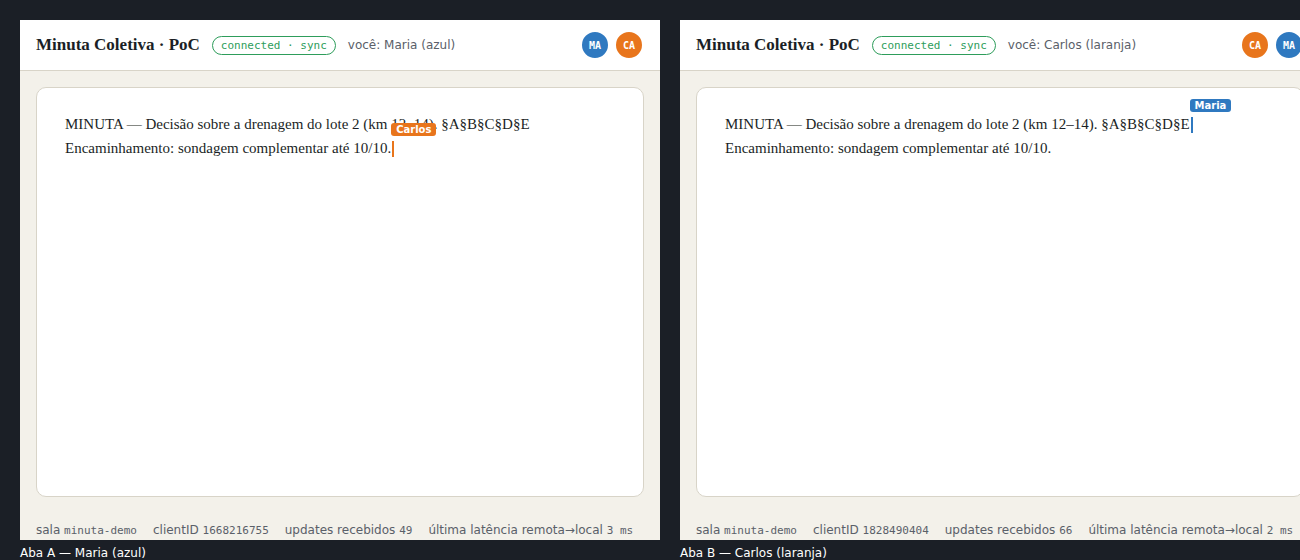
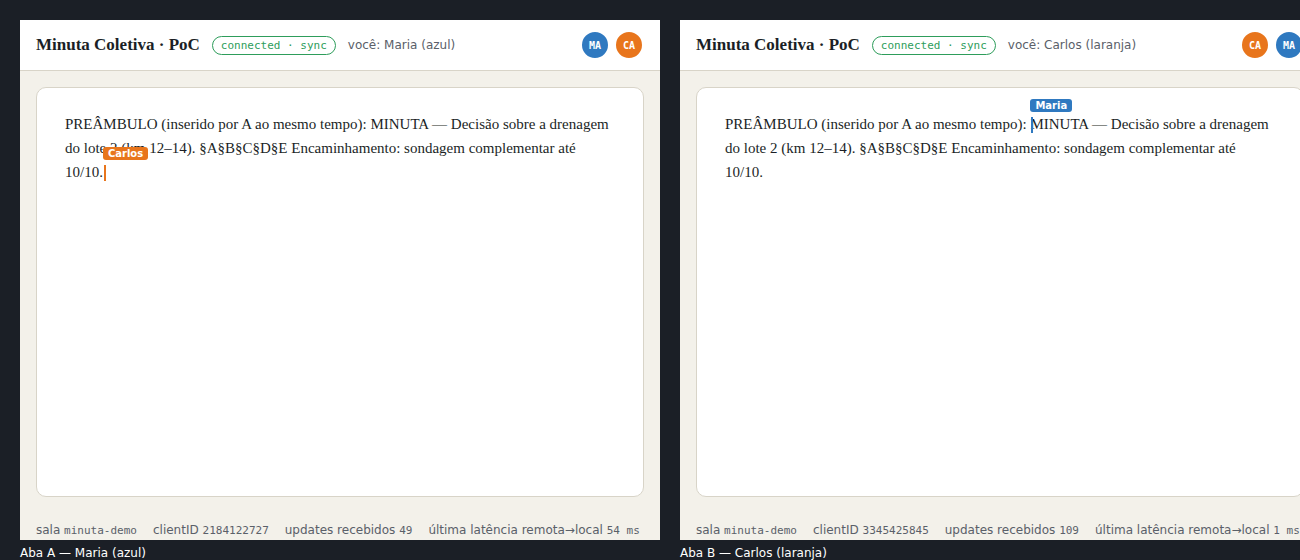
fix(docs): revisão Codex na PoC de coedição — servidor robusto e teste concorrente de verdade
- server.mjs: frame WebSocket vazio/truncado/desconhecido fecha só a conexão (1003)
  em vez de derrubar o processo; /vendor recusa segmentos . e .. (inclusive
  codificados) e só serve arquivo cujo realpath continua dentro do pacote.
- test.mjs: chromium.launch dentro do try/finally (o servidor é sempre morto);
  passo 3 virou edição realmente concorrente (A no início e B no fim, em paralelo)
  e a convergência exige as três frases contíguas.
- client.html: o passo concorrente revelou que o caret era restaurado por offset
  absoluto e andava para trás quando chegava texto remoto antes dele; agora é
  mapeado pelo delta do update (equivalente ao Y.RelativePosition do editor real).
- README/COEDICAO_TECNICA/teste.log/captura atualizados com a nova execução
  (10–14 ms por tecla, 430 ms para 92 caracteres em paralelo, convergiu).
- package-lock.json versionado para a PoC ser reproduzível.

Claude-Session: https://claude.ai/code/session_01KGwP9AAPCHnmdWi7UQkQYW

diff --git a/docs/lab/poc-coedicao/client.html b/docs/lab/poc-coedicao/client.html
@@ -80,10 +80,23 @@ const editor = $('editor');
 let applyingRemote = false;
 let updates = 0;
 
-function render() {
+// Reaplica o texto e MAPEIA o caret local pelo delta remoto: sem isso, um colega inserindo texto antes do meu caret
+// faria meu caret "andar para trás" (offset absoluto) e minhas próximas letras cairiam no meio do texto dele. É o que o
+// editor de verdade faz com Y.RelativePosition (COEDICAO_TECNICA.md); aqui o delta do evento basta.
+function render(delta) {
   const sel = getCaret();
   editor.textContent = ytext.toString();
-  if (sel != null) setCaret(sel);
+  if (sel != null) setCaret(delta ? mapCaret(sel, delta) : sel);
+}
+function mapCaret(pos, delta) {
+  let idx = 0, p = pos;
+  for (const op of delta) {
+    if (idx >= p) break;
+    if (op.retain) idx += op.retain;
+    else if (op.insert) { const len = op.insert.length; if (idx < p) p += len; idx += len; }
+    else if (op.delete) { p -= Math.min(op.delete, p - idx); }
+  }
+  return p;
 }
 function getCaret() {
   const s = window.getSelection();
@@ -109,7 +122,7 @@ editor.addEventListener('input', () => {
 });
 ytext.observe((ev, tr) => {
   if (tr.origin === 'local') return;
-  applyingRemote = true; render(); applyingRemote = false;
+  applyingRemote = true; render(ev.delta); applyingRemote = false;
   updates++; $('updates').textContent = updates;
   // latência: quem digita grava Date.now() no awareness (campo typedAt); aqui comparamos ao recebimento do update
   const states = [...awareness.getStates().values()];

diff --git a/docs/lab/poc-coedicao/README.md b/docs/lab/poc-coedicao/README.md
@@ -28,23 +28,29 @@ CHROME=/opt/pw-browsers/chromium-1194/chrome-linux/chrome npm test
 
 ```
 ambas conectadas; presença em A = 2
-A→B: "MINUTA — Decisão sobre a drenagem do lote 2 (km 12–14)." chegou em 248 ms (inclui o tempo de digitação dos 56 caracteres)
-A→B 1 token "§A": 15 ms
-A→B 1 token "§B": 11 ms
-A→B 1 token "§C": 13 ms
-A→B 1 token "§D": 12 ms
-A→B 1 token "§E": 17 ms
-B→A: chegou em 284 ms
-convergiu: true | texto final: "MINUTA — Decisão sobre a drenagem do lote 2 (km 12–14). §A§B§C§D§E Encaminhamento: sondagem complementar até 10/10."
-servidor /status: {"minuta-demo":{"conns":2,"updates":115,"textLength":115,"awareness":2}}
-RESULTADO: OK — todas as amostras < 1 s (máx 284 ms)
+A→B: "MINUTA — Decisão sobre a drenagem do lote 2 (km 12–14)." chegou em 283 ms (inclui o tempo de digitação dos 56 caracteres)
+A→B 1 token "§A": 10 ms
+A→B 1 token "§B": 12 ms
+A→B 1 token "§C": 11 ms
+A→B 1 token "§D": 11 ms
+A→B 1 token "§E": 14 ms
+concorrente: B→A e A→B chegaram em 430 ms (92 caracteres digitados em paralelo)
+convergiu: true | texto final: "PREÂMBULO (inserido por A ao mesmo tempo): MINUTA — Decisão sobre a drenagem do lote 2 (km 12–14). §A§B§C§D§E Encaminhamento: sondagem complementar até 10/10."
+servidor /status: {"minuta-demo":{"conns":2,"updates":158,"textLength":158,"awareness":2}}
+captura salva em teste-2-abas.png
+RESULTADO: OK — todas as amostras < 1 s (máx 430 ms)
 ```
 
-- **Latência por tecla (A→B, localhost): 11–17 ms**; o tempo de 248/284 ms das frases inteiras é dominado pela digitação simulada caractere a caractere (56 e 49 updates), não pelo transporte.
-- Os dois lados convergiram para o mesmo texto após edições concorrentes (Carlos escreveu no fim enquanto o cursor de Maria estava no meio).
+- **Latência por tecla (A→B, localhost): 10–14 ms**; o tempo das frases inteiras (430 ms no passo concorrente) é dominado pela digitação simulada caractere a caractere, não pelo transporte.
+- **Edição realmente concorrente** (passo 3): Maria insere um preâmbulo no **início** enquanto Carlos escreve no **fim**, ao mesmo tempo (`Promise.all`, sem esperar um pelo outro). Os dois lados convergiram para o mesmo texto e cada frase ficou contígua. Esse passo revelou um defeito do cliente da PoC (o caret era restaurado por offset absoluto e "andava para trás" quando chegava texto remoto antes dele, misturando as frases); corrigido mapeando o caret pelo delta do update remoto — no editor real isso é o `Y.RelativePosition` (COEDICAO_TECNICA.md).
 - Presença: cada aba vê 2 estados de awareness (avatar + cursor colorido do outro usuário).
 
 ![captura das 2 abas](teste-2-abas.png)
+
+## Robustez do servidor (revisão)
+- Frame WebSocket vazio, truncado ou de tipo desconhecido fecha **só aquela conexão** (código 1003) e é registrado no log; o processo e as outras salas continuam.
+- `/vendor/<pacote>/<sub>` recusa segmentos `.`/`..` (inclusive codificados, `%2F..%2F`) e só serve o arquivo se o caminho canônico (`realpath`) continuar dentro do pacote escolhido em `node_modules`.
+- `test.mjs` mata o servidor mesmo quando o Chromium não sobe (o `launch` está dentro do `try/finally`), para a porta 1239 não ficar presa.
 
 ## O que a PoC não cobre (fica para o adapter real)
 Persistência (snapshot S3 + metadados MySQL + eventos Cassandra), autenticação do WebSocket (JWT do RF2), limite de editores por documento, RESTRITO/SIGILOSO (sala só no backend interno, sem provedor externo), reconexão com fila offline (`y-indexeddb`) e editor rico com modo revisão (sugestões) — ver `docs/produto/COEDICAO_TECNICA.md`.

diff --git a/docs/produto/COEDICAO_TECNICA.md b/docs/produto/COEDICAO_TECNICA.md
@@ -5,7 +5,7 @@
 ## 0. Resumo executivo
 - **Recomendação:** **Yjs (CRDT)** no cliente e no servidor; transporte **WebSocket próprio no Spring Boot** (não STOMP) falando o protocolo y-websocket (`y-protocols` sync + awareness), implementado como adapter da porta **`CollabDocPort`** em `ws-infrastructure/collab-yjs`; **presença (awareness) e fan-out entre instâncias via Redis pub/sub**; **persistência** = snapshot binário do `Y.Doc` no **S3** + metadados/versões no **MySQL** + updates incrementais e eventos no **Cassandra** (append-only, mesmo padrão do rastro de decisão). Editor: TipTap/ProseMirror com `y-prosemirror` (cursores, sugestões e comentários como marks).
 - **Por quê:** CRDT elimina a transformação de operações no servidor (OT exige servidor central com histórico ordenado e é frágil para texto rico); Yjs tem o ecossistema mais maduro (bindings ProseMirror/TipTap/CodeMirror, awareness, `y-indexeddb` para offline) e desempenho superior ao Automerge em documentos de texto; manter o transporte no Spring preserva o modelo de segurança (JWT do RF2, `accessClass`, auditoria, `correlationId`) e evita um terceiro runtime em produção.
-- **PoC:** 2 abas sincronizadas com **11–17 ms por tecla** em localhost (máx. 284 ms para rajada de 49 caracteres digitados um a um), convergência confirmada, presença com cursores coloridos. Meta de produto (≤ 300 ms fim a fim na rede do estado) é folgada: o orçamento de latência é dominado pela rede, não pelo CRDT.
+- **PoC:** 2 abas sincronizadas com **10–14 ms por tecla** em localhost (máx. 430 ms para 92 caracteres digitados em paralelo pelas duas abas, uma no início e outra no fim do texto), convergência confirmada em edição realmente concorrente, presença com cursores coloridos. Lição da PoC: o caret local precisa ser mapeado pelas edições remotas (`Y.RelativePosition`), senão as frases se misturam. Meta de produto (≤ 300 ms fim a fim na rede do estado) é folgada: o orçamento de latência é dominado pela rede, não pelo CRDT.
 - **Riscos principais:** tamanho do histórico Yjs em documentos longevos (mitigado por snapshot + GC), número de editores simultâneos (limite 10 por documento), e a fronteira RESTRITO/SIGILOSO (sala só no backend, sem IA externa, cifragem em repouso).
 
 ## 1. Algoritmo de convergência: Yjs × Automerge × OT
@@ -76,7 +76,7 @@ Decisão proposta: **B por padrão**, **A como opção "abrir no provedor"** ape
 
 | Requisito | Meta | Como medir / garantir |
 |---|---|---|
-| Latência fim a fim (tecla → tela do outro) | **≤ 300 ms p95** na rede do estado (≤ 150 ms em LAN) | PoC: 11–17 ms localhost. Orçamento: RTT rede (50–120 ms) + Redis pub/sub (< 2 ms) + fan-out + render. Métrica `collab_update_latency_ms` (timestamp no awareness, como na PoC) |
+| Latência fim a fim (tecla → tela do outro) | **≤ 300 ms p95** na rede do estado (≤ 150 ms em LAN) | PoC: 10–14 ms localhost. Orçamento: RTT rede (50–120 ms) + Redis pub/sub (< 2 ms) + fan-out + render. Métrica `collab_update_latency_ms` (timestamp no awareness, como na PoC) |
 | Editores simultâneos por documento | **10 editores** (hard limit) + leitores ilimitados via snapshot + SSE | `collab:{docId}:editors` no Redis; o 11º entra como leitor com aviso; `editorLimit` configurável por EMPRESA |
 | Tamanho do documento | ≤ 1 MB de estado Yjs (≈ 200 páginas) | Snapshot + GC; alerta em 512 kB |
 | Disponibilidade | Falha do Redis → instância única continua; falha do compactador → só cresce o log; falha do Cassandra → **escrita bloqueada** (não aceitar updates sem persistir) | Testcontainers nos testes de integração; chaos test de reconexão |
